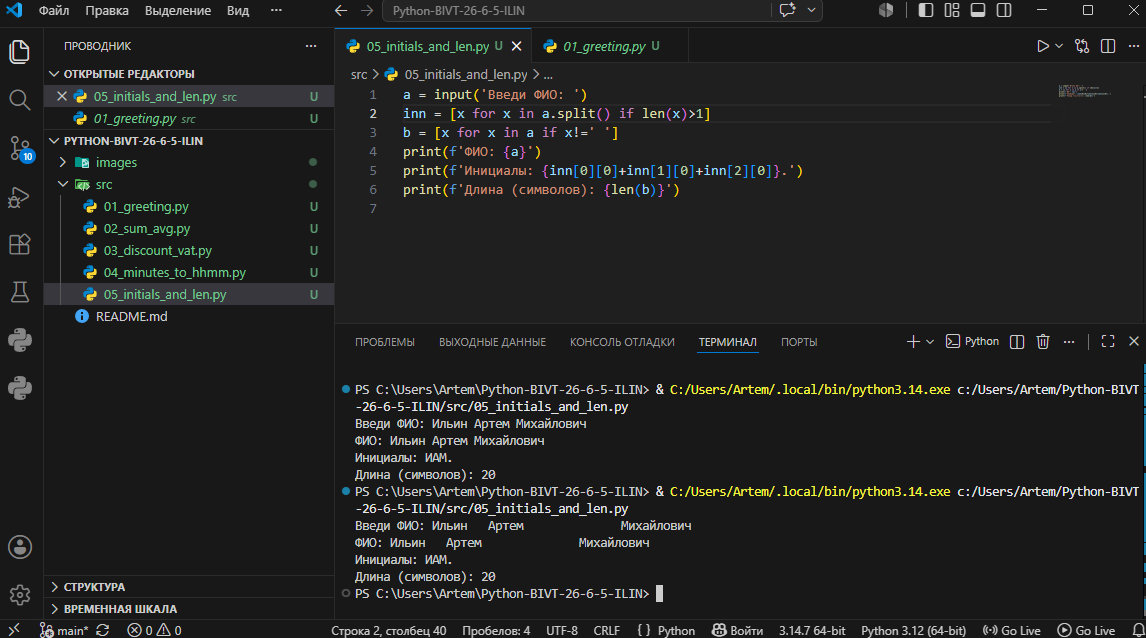
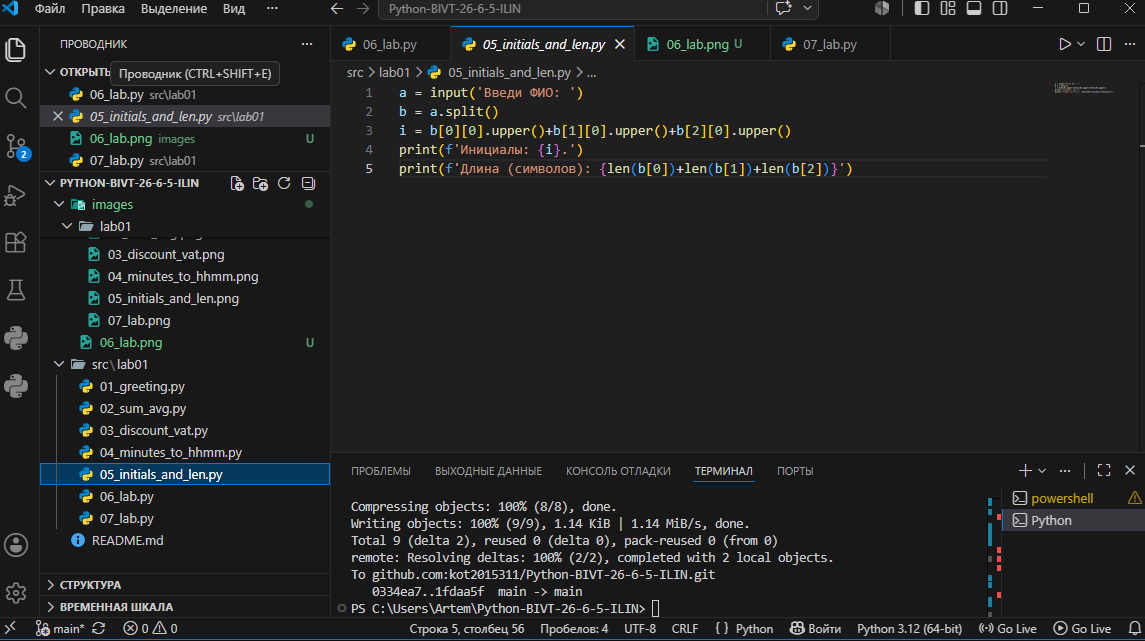
IZMENENIE

diff --git a/src/lab01/README.md b/src/lab01/README.md
@@ -1,0 +1,26 @@
+1 Задание
+Запрос и вывод
+![alt text](../../images/lab01/01_greeting.png)
+
+2 Задание
+Запрос, подсчет, вывод
+![alt text](../../images/lab01/02_sum_avg.png)
+
+3 Задание
+Запросы, подсчеты, вывод
+![alt text](../../images/lab01/03_discount_vat.png)
+
+4 Задание
+Запрос, подсчет, вывод
+![alt text](../../images/lab01/04_minutes_to_hhmm.png)
+
+5 Задание
+Запрос, сплиты, вывод
+
+6 задание,
+Запрос, цикл, ввод данных, сплит, подсчет, вывод
+![alt text](../../images/lab01/05_initials_and_len.png)
+
+7 Задание 
+Считывание строки, постепенный ход по алгоритму, постепенное добавление букв в переменную, вывод
+![alt text](../../images/lab01/07_lab.png)
